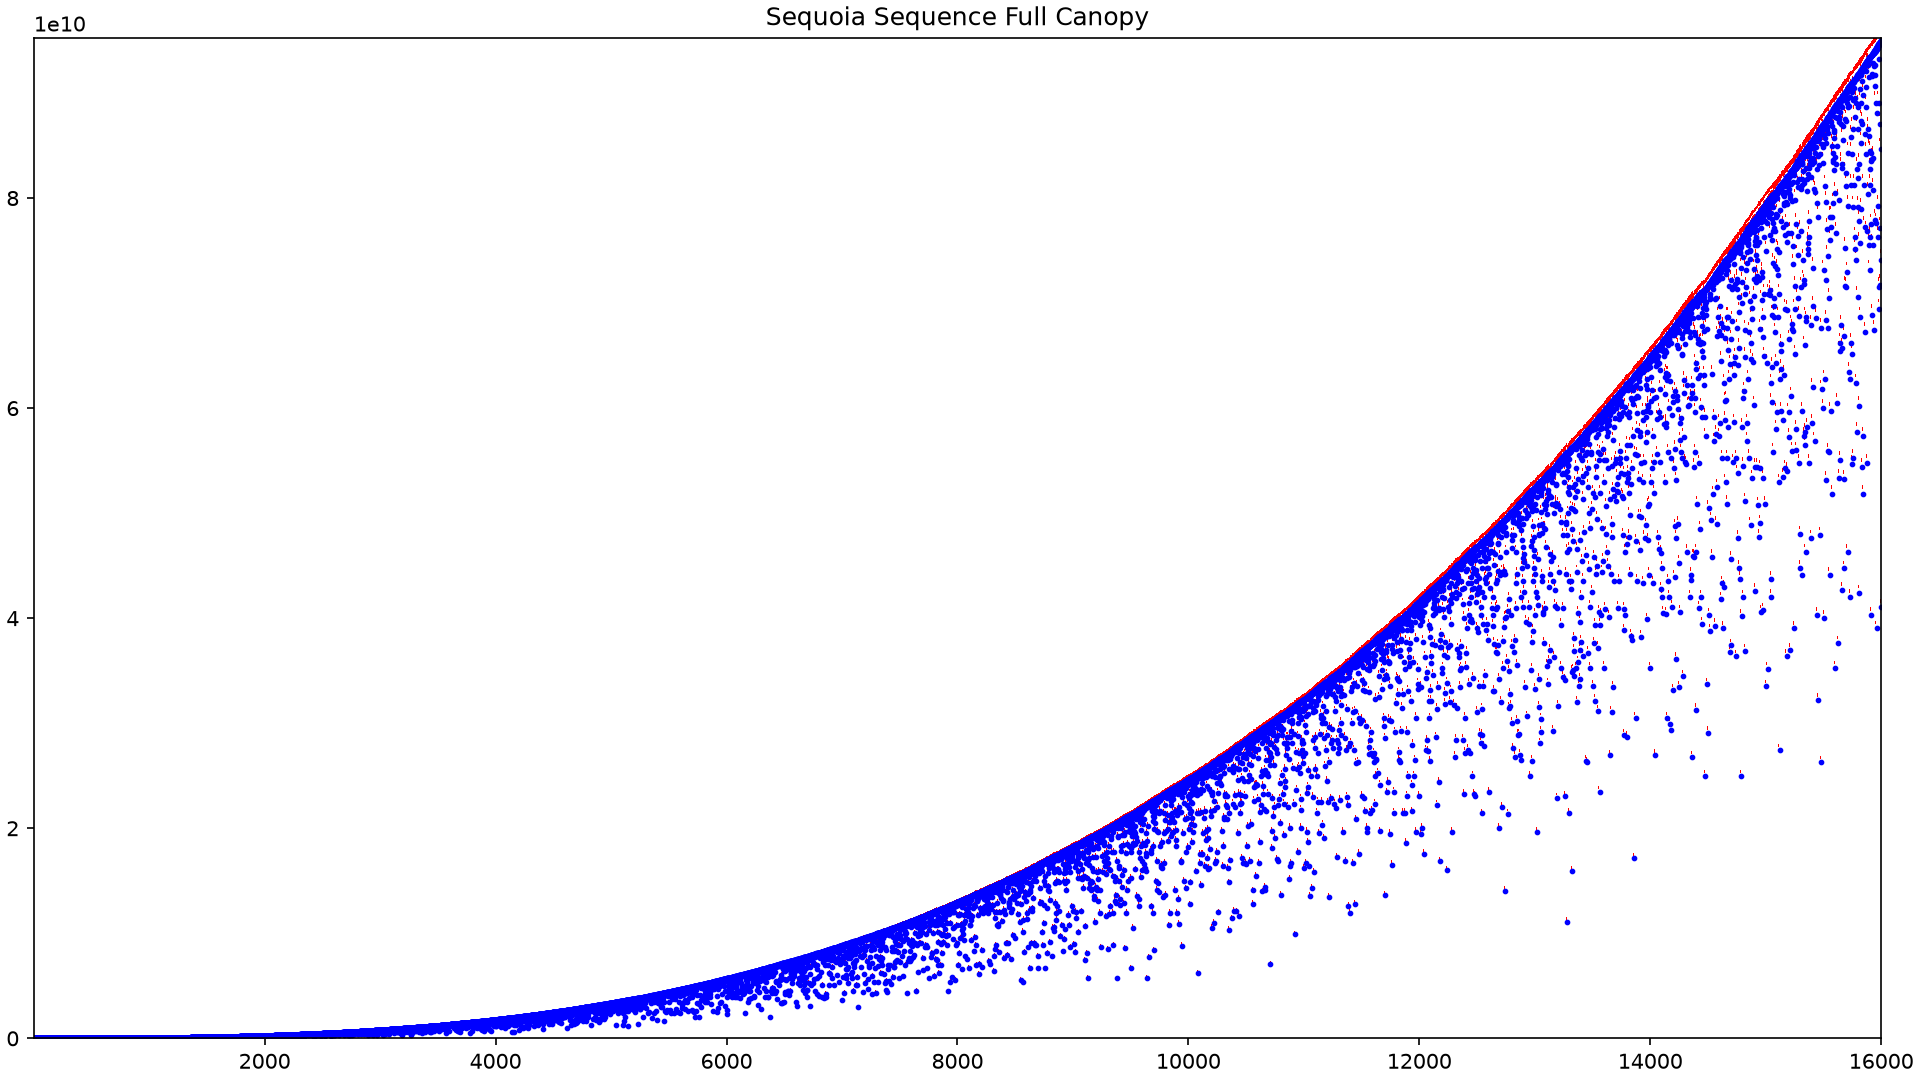
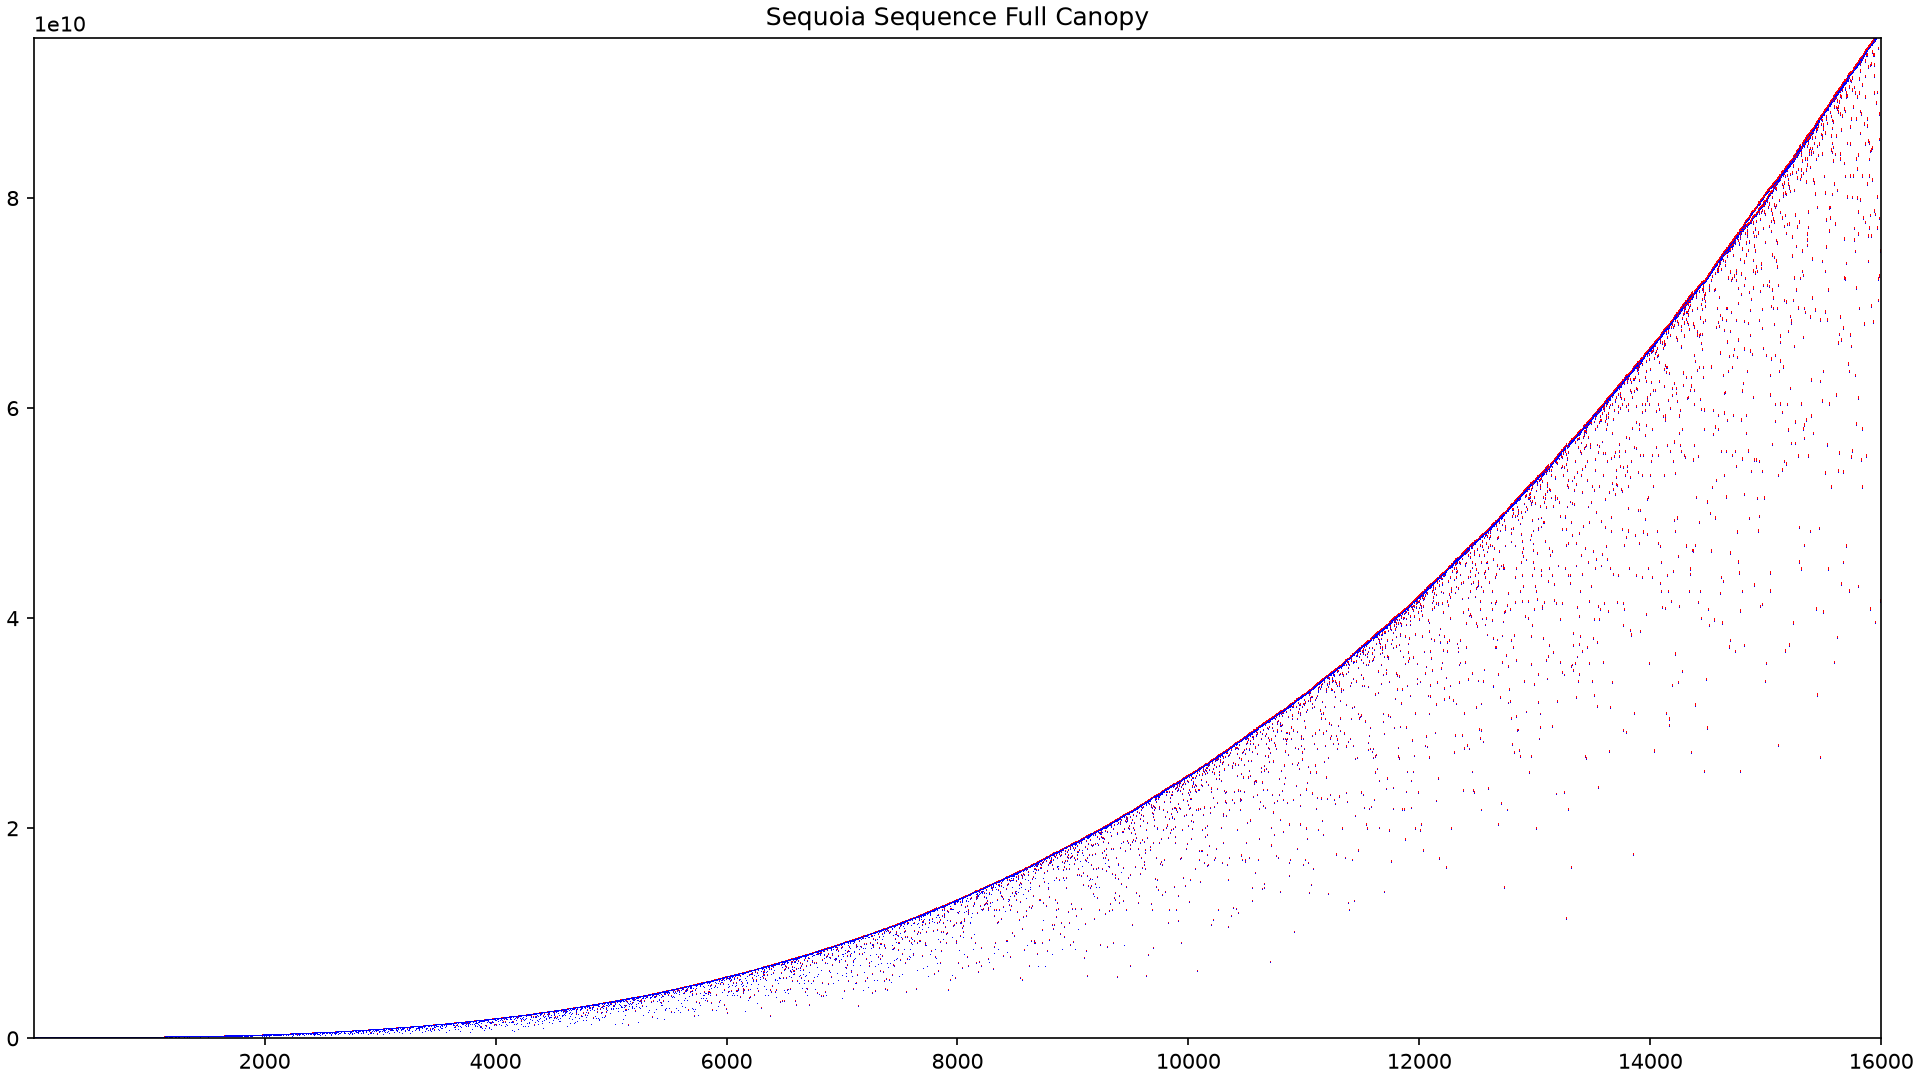
Fix full canopy pixelization

Changed region(s): [[0.0938, 0.0306, 1.0, 0.9778]]

diff --git a/scripts/plotting/full_canopy_scatter.py b/scripts/plotting/full_canopy_scatter.py
@@ -13,7 +13,7 @@ output_dpi = 150
 
 
 def scatter_canopy(ax, indices, terms, log_scale):
-    """Rasterize every additional branch point at the output resolution."""
+    """Rasterize every sequence and additional branch point as one pixel."""
     # Drawing once establishes the axes' final pixel bounds after constrained layout.
     ax.figure.canvas.draw()
     bounds = ax.get_window_extent()
@@ -38,6 +38,23 @@ def scatter_canopy(ax, indices, terms, log_scale):
         visible = (pixel_y >= 0) & (pixel_y < height)
         if 0 <= pixel_x < width:
             canopy[pixel_y[visible], pixel_x] = (255, 0, 0, 255)
+
+    # Write sequence terms last so their individual blue pixels remain visible.
+    plot_x = np.log(indices) if log_scale else np.asarray(indices)
+    plot_y = np.log(terms) if log_scale else np.asarray(terms)
+    pixel_x = np.rint(
+        (plot_x - x_min) * (width - 1) / (x_max - x_min)
+    ).astype(np.intp)
+    pixel_y = np.rint(
+        (plot_y - y_min) * (height - 1) / (y_max - y_min)
+    ).astype(np.intp)
+    visible = (
+        (pixel_x >= 0)
+        & (pixel_x < width)
+        & (pixel_y >= 0)
+        & (pixel_y < height)
+    )
+    canopy[pixel_y[visible], pixel_x[visible]] = (0, 0, 255, 255)
 
     ax.imshow(
         canopy,
@@ -96,8 +113,6 @@ def main():
         ax.set_yscale('log')
 
     scatter_canopy(ax, indices, seq, args.log)
-    # Plot sequence terms last so the blue points remain visible.
-    ax.scatter(indices, seq, s=3, c='blue', zorder=2)
     ax.set_title('Sequoia Sequence Full Canopy')
 
     if args.output:

diff --git a/scripts/plotting/README.md b/scripts/plotting/README.md
@@ -54,9 +54,10 @@ python3 scripts/plotting/full_canopy_scatter.py
 
 ![Full canopy scatter plot](../../docs/images/full_canopy_scatter.png)
 
-The canopy layer is rasterized at the output resolution so the complete set of
-branch points can be displayed without retaining every marker in memory. The
-blue sequence terms are drawn on top of it as ordinary scatter points.
+The plot is rasterized at the output resolution so the complete set of branch
+points can be displayed without retaining every marker in memory. Every red
+branch point and blue sequence term is drawn as an individual pixel, with blue
+pixels written last so the sequence terms remain visible.
 
 The script also supports logarithmic axes and saving to a file:
 